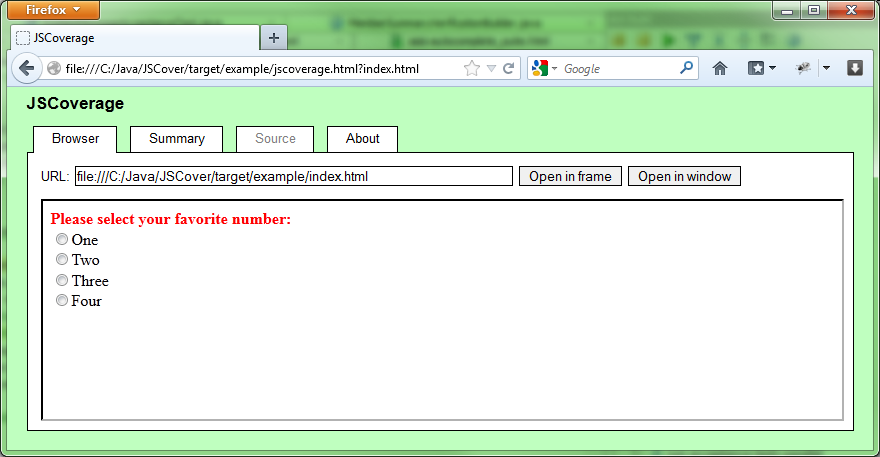
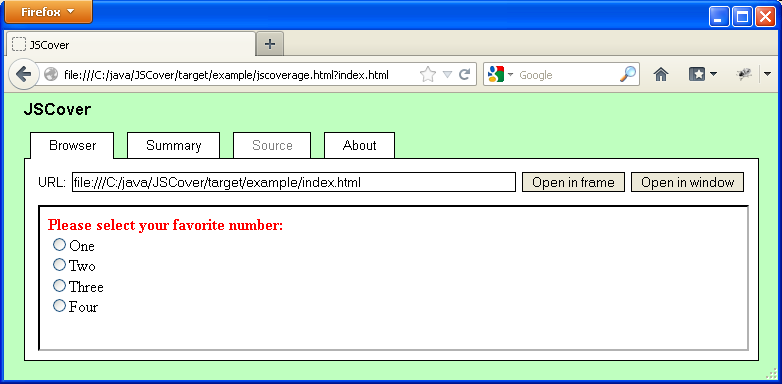
v0.2.6

diff --git a/js/nav.js b/js/nav.js
@@ -1,44 +1,42 @@
 $(document).ready(function() {
-//     var buttonColour = {};
-// //    $(".navButton").css('background-color', '#993333');
-//     $(".navButton").css('background-color', '#cccccc');
-//     $(".navButton").fadeTo("slow", 0.7);
-//     $(".navButton").mousedown(function() {
-//         $(this).css('cursor', 'hand').css('color', '#6699ff').css('border', '2px solid #6699ff').css('text-shadow', '#6699ff 0px 0px 5px');
-//     });
-//     $(".navButton").mouseup(function() {
-//         $(this).css('cursor', 'hand').css('color', '#336699').css('border', '2px solid #336699').css('text-shadow', '#336699 0px 0px 5px');
-//     });
-//     $(".navButton").hover(function() {
-// //        $(this).css('cursor', 'hand').css('background-color', '#006633').css('color', '#99ffee').css('border', '1px solid #eeeeff').css('text-shadow', '#66ff99 0px 0px 10px');
-//         $(this).css('cursor', 'hand').css('color', '#336699').css('border', '2px solid #336699').css('text-shadow', '#336699 0px 0px 5px');
-//         $(this).fadeTo("fast", 1.0);
-//     }, function() {
-
-// //        var backgroundColour = $(this).hasClass('clicked') ? '#006633' : '#993333';
-//         $(this).fadeTo("slow", 0.7).css('color', '#000000').css('border', '2px solid #000000').css('text-shadow', 'none');
-// //        $(this).fadeTo("slow", 0.7).css('background-color', backgroundColour).css('color', '#000000').css('border', '1px solid #444444').css('text-shadow', 'none');
-//     });
+  var buttonColour = {};
+  $(".navButton").fadeTo("fast", 0.7);
+  $(".brand").fadeTo("fast", 1);
+  $(".navButton").mousedown(function() {
+    $(this).addClass('navButtonDown');
+  });
+  $(".navButton").mouseup(function() {
+    $(this).removeClass('navButtonDown');
+    if (!$(this).hasClass('brand'))
+      $(this).fadeTo("fast", 0.7);
+  });
+  $(".navButton").hover(function() {
+    $(this).addClass('navButtonHover');
+    $(this).fadeTo("fast", 1.0);
+  }, function() {
+    $(this).removeClass('navButtonHover').removeClass('navButtonDown');
+    if (!$(this).hasClass('brand'))
+      $(this).fadeTo("fast", 0.7);
+  });
+  $.ajax({
+    url: 'home.html',
+    dataType:'html',
+    success: function(data) {
+      $('#container').html(data+'<p>&nbsp;</p>');
+    }
+  });
+  $(".navButton").click(function() {
+    if ($(this).attr("id") === undefined) {
+      return;
+    }
+    $('#container').html('<div style="position:relative"><h2>Loading...</h2></div>');
+    var contentId = $(this).attr("id").replace('Link', '');
     $.ajax({
-            url: 'home.html',
-            dataType:'html',
-            success: function(data) {
-                $('#container').html(data+'<p>&nbsp;</p>');
-            }
-        });
-    $(".navButton").click(function() {
-        // $(this).addClass('clicked');
-        if ($(this).attr("id") === undefined) {
-            return;
-        }
-        $('#container').html('<div style="position:relative"><h2>Loading...</h2></div>');
-        var contentId = $(this).attr("id").replace('Link', '');
-        $.ajax({
-            url: contentId + '.html?v=025',
-            dataType:'html',
-            success: function(data) {
-                $('#container').html(data+'<p>&nbsp;</p>');
-            }
-        });
+      url: contentId + '.html?v=026',
+      dataType:'html',
+      success: function(data) {
+      $('#container').html(data+'<p>&nbsp;</p>');
+    }
     });
+  });
 });

diff --git a/examples.html b/examples.html
@@ -46,3 +46,28 @@
     <p>
         See the <a href="manual/manual.xml#gettingStartedProxy" target="_blank">manual</a> for details.
     </p>
+
+    <h2>PhantomJS &amp; JSCover Server</h2>
+
+    <p>
+        This example uses QUnit and
+        <a href="https://github.com/tntim96/JSCover/blob/master/src/test/javascript/lib/PhantomJS/run-jscover-qunit.js" target="_blank">run-jscover-qunit.js</a>,
+        but can easily be run with Jasmine. See the file
+        <a href="https://github.com/tntim96/JSCover/blob/master/src/test/javascript/lib/PhantomJS/run-jscover-jasmine.js" target="_blank">run-jscover-jasmine.js</a>
+        and the <a href="manual/manual.xml#automatingPhantomJS" target="_blank">manual</a> for more details.
+    </p>
+
+    <p>Download <a href="http://phantomjs.org/" target="_blank">PhantomJS</a> and put the executable on your path.</p>
+
+    <p>Run the web-server, example-phantom-ws.sh</p>
+
+    <p>Run example-phantoms.sh</p>
+
+    <div class="shell">
+        phantomjs src/test/javascript/lib/PhantomJS/run-jscover-qunit.js http://localhost:8080/test/index.html
+    </div>
+
+    <p>
+        The QUnit test results appear in the PhantomJS console, and the coverage report should be in 'target/phantom'.
+        Don't forget to <a href="http://localhost:8080/stop" target="_blank">shutdown the server</a>.
+    </p>

diff --git a/css/style.css b/css/style.css
@@ -67,7 +67,7 @@ ul{
     padding: 10px 50px;
     color: #fff;
     line-height: 36px;
-    height: 36px;
+    height: 38px;
 
     -moz-box-shadow: 0px 1px 5px #000;
     -webkit-box-shadow: 0px 1px 5px #000;
@@ -75,10 +75,38 @@ ul{
     box-shadow: 0px 1px 5px #000;
 }
 
-.brand{
+#nav{
+    float: right;
+    font-size: 20px;
+}
+
+.navButton {
+    font-size: 18px;
+    font-weight: bold;
+    cursor: pointer;
+    color: #ffffff;
+    border: 1px solid #666666;
+    border-radius: 5px;
+    margin: 2;
+    padding: 3;
+    text-decoration: none;
+}
+
+.navButtonHover {
+    cursor: hand;
+    color: #F2C12E;
+    border: 1px solid #336699;
+    text-shadow: #336699 0px 0px 5px;
+}
+
+.brand {
+    font-size: 36px;
     float: left;
     font-weight: 900;
-    font-size: 36px;
+    border: 1px solid #6699ff;
+
+    padding-top: 0px;
+    margin-top: 0px;
 
     -moz-text-shadow: 0px -1px 1px #000;
     -webkit-text-shadow: 0px -1px 1px #000;
@@ -88,11 +116,13 @@ ul{
     cursor: pointer;
 }
 
-#nav{
-    float: right;
-    font-size: 20px;
+.navButtonDown {
+    cursor: hand;
+    border: 1px solid #6699ff;
+    text-shadow: #6699ff 0px 0px 5px;
 }
 
+/*
 .navButton{
     padding: 0 10px;
     cursor: pointer;
@@ -107,6 +137,7 @@ ul{
     color: #fff;
     text-decoration: none;
 }
+*/
 
 .selected {
     font-weight: bold;

diff --git a/status.html b/status.html
@@ -11,7 +11,7 @@
 <p>
     JSCover reuses JSCoverage's regression tests
     (see <a href="https://github.com/tntim96/JSCover/blob/master/src/test-integration/java/jscover/instrument/InstrumentAndHighlightRegressionTest.java" target="_blank">InstrumentAndHighlightRegressionTest</a>)
-    and has added a suite of unit, integration and acceptance tests which give a fairly high degree of coverage (~96% line, ~92% branch).
+    and has added a suite of unit, integration and acceptance tests which give a fairly high degree of coverage (~96% line, ~93% branch).
     JavaScript tests have also been added (using Jasmine) and JSCover is used to check JavaScript coverage
     (see <a href="https://github.com/tntim96/JSCover/blob/master/src/test-acceptance/java/jscover/server/HtmlUnitJSTest.java" target="_blank">HtmlUnitJSTest</a>).
 </p>

diff --git a/index.html b/index.html
@@ -1,10 +1,10 @@
 <html>
 <head>
     <title>JSCover - JavaScript code coverage</title>
-    <link rel="stylesheet" type="text/css" href="css/style.css?v=023g">
+    <link rel="stylesheet" type="text/css" href="css/style.css?v=026">
     <link href='http://fonts.googleapis.com/css?family=Titillium+Web:400,600,700,600italic,400italic' rel='stylesheet' type='text/css'>
     <script type="text/javascript" src="js/jquery-1.8.2.min.js"></script>
-    <script type="text/javascript" src="js/nav.js?v=025"></script>
+    <script type="text/javascript" src="js/nav.js?v=026"></script>
 
 </head>
 <body>

diff --git a/downloads.html b/downloads.html
@@ -1,7 +1,7 @@
 <h2>Latest Release</h2>
 <p>
     The latest release is
-    <a href="http://sourceforge.net/projects/jscover/files/JSCover-0.2.5.zip/download" target="_blank">v0.2.5</a>.
+    <a href="http://sourceforge.net/projects/jscover/files/JSCover-0.2.6.zip/download" target="_blank">v0.2.6</a>.
     See the
     <a href="https://github.com/tntim96/JSCover/blob/master/History.md" target="_blank">release notes</a>
     for more information.

diff --git a/contribute.html b/contribute.html
@@ -26,4 +26,8 @@
         <td><a href="https://github.com/fujifish" target="_blank">Fujifish</a></td>
         <td>Cobertura XML for Jenkins CI. Proxy bug fix.</td>
     </tr>
+    <tr>
+        <td><a href="https://github.com/robinjmurphy" target="_blank">robinjmurphy</a></td>
+        <td><a href="https://github.com/tntim96/JSCover/pull/50" target="_blank">File-system instrumented code and Cobertura bug fix.</a></td>
+    </tr>
 </table>
